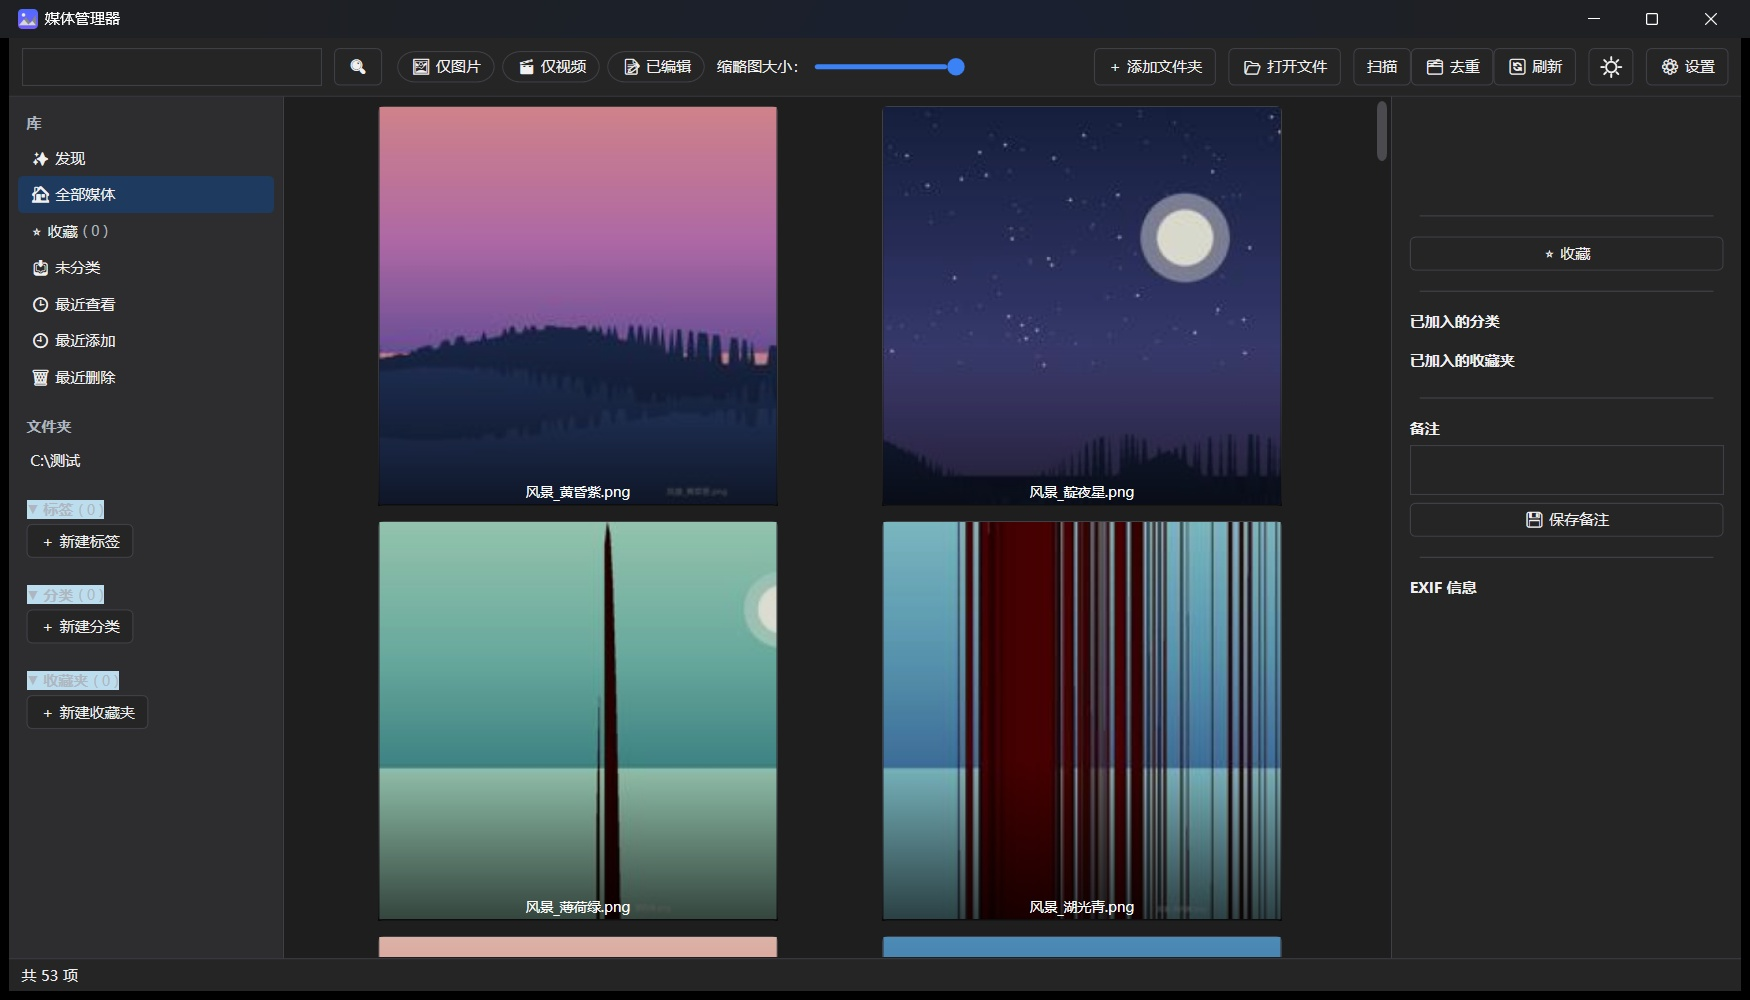
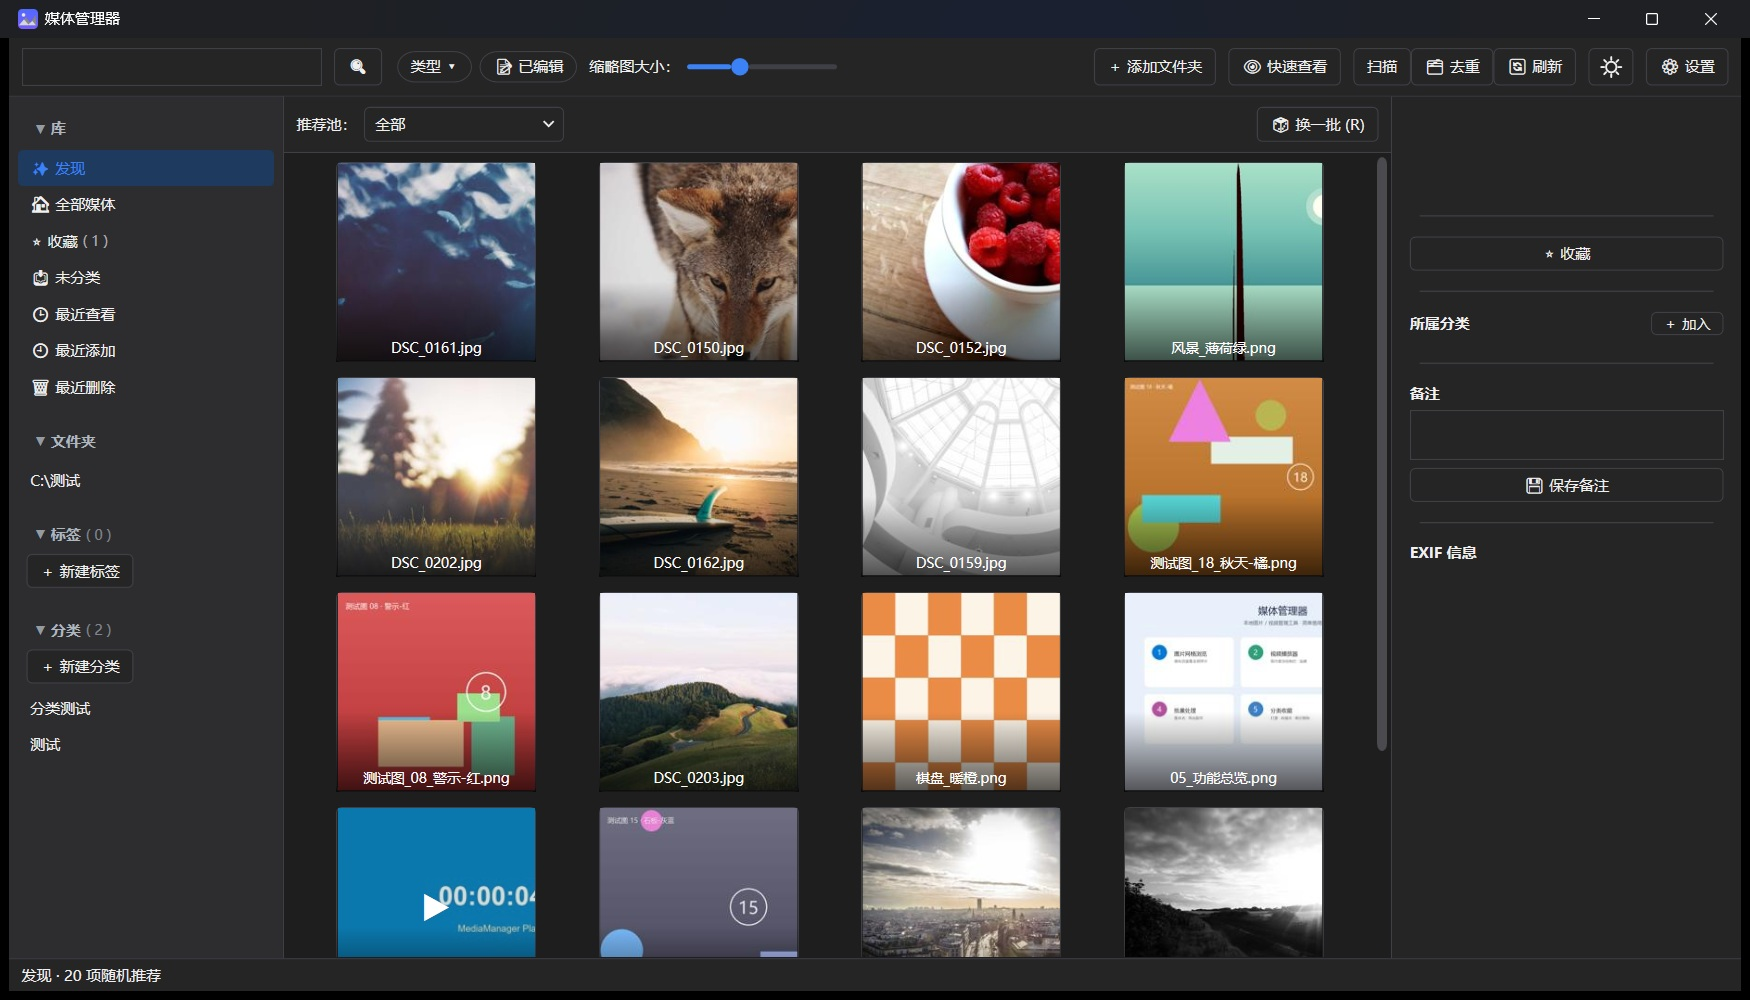
build: 安装包瘦身 100.1→96.3 MiB，截图与社交预览更新到 v1.3.2
瘦身（installer.iss Excludes，publish 输出不动，随时可重打）：
- 排除本地播放永不加载的 VLC 模块：access_output / stream_out（推流）、
  visualization（频谱）、services_discovery（设备发现）、hrtfs
- 排除 *.lib 导入库、System.Windows.Forms.Design（设计器）、
  mscordbi / mscordaccore / DiaSymReader（调试与 dump 资产）
- 未压缩 374 MB → 347 MB，安装包 104,978,521 → 100,947,973 B = 96.3 MiB，
  回到 Gitee 100 MiB 附件上限内
- 实测：静默安装 673 文件，启动正常；用 ctypes 直调裁剪后的 libvlc 解码
  mp4，state=Playing、time 推进、length 正常，与未裁剪版结果一致

宣传素材：
- 重拍 1.3.2 深/浅两套主界面截图（旧图侧栏还挂着收藏夹区），
  同时替换 README 用的 docs/screenshot_*.jpg
- gen_promo：页脚 v1.3.1→v1.3.2，03 卡文案删去「收藏夹」
- 重出 01-cover / 03-aggregate；social-preview.png 1280×640 / 424 KB
- 官网下载区体积 101 → 97 MB

工具：
- build/shot_main_ui.py 重拍 16:10 主界面图
- build/check_libvlc_play.py 裁剪后用 libvlc 直接解码验证播放链路

diff --git a/docs/index.html b/docs/index.html
@@ -183,7 +183,7 @@ footer a:hover{color:var(--tx)}
         <a class="btn btn-s" href="https://github.com/3206YYY/MediaManager">查看源码</a>
       </div>
       <div class="meta">
-        <span>101 MB 安装包</span>
+        <span>97 MB 安装包</span>
         <span>免装 .NET 运行库</span>
         <span>用户级安装，不要管理员权限</span>
       </div>
@@ -305,7 +305,7 @@ footer a:hover{color:var(--tx)}
       <h2>下载 v1.3.2</h2>
       <p>Windows 10 / 11 · 64 位 · 用户级安装，不要管理员权限。装完双击就能用，不需要额外装任何东西。</p>
       <div class="acts">
-        <a class="btn btn-p" href="https://github.com/3206YYY/MediaManager/releases/latest">GitHub 下载（101 MB）</a>
+        <a class="btn btn-p" href="https://github.com/3206YYY/MediaManager/releases/latest">GitHub 下载（97 MB）</a>
         <a class="btn btn-s" href="https://gitee.com/yyy3206/MediaManager" target="_blank" rel="noopener">Gitee 镜像（源码）</a>
       </div>
       <div class="note">

diff --git a/build/shot_main_ui.py b/build/shot_main_ui.py
@@ -1,0 +1,127 @@
+# -*- coding: utf-8 -*-
+"""一次性：启动 1.3.2 主窗口，设为 16:10 窗口后 PrintWindow 抓图，输出宣传用截图。
+
+用法： python build/_shot_new_ui.py <输出 jpg 路径>
+"""
+import ctypes
+import ctypes.wintypes as wt
+import os
+import subprocess
+import sys
+import time
+
+from PIL import Image
+
+user32 = ctypes.windll.user32
+kernel32 = ctypes.windll.kernel32
+gdi32 = ctypes.windll.gdi32
+try:
+    ctypes.windll.shcore.SetProcessDpiAwareness(2)
+except Exception:
+    user32.SetProcessDPIAware()
+
+ROOT = os.path.dirname(os.path.dirname(os.path.abspath(__file__)))
+EXE = os.path.join(ROOT, "dist", "MediaManager-win-x64", "MediaManager.App.exe")
+TARGET = (1750, 1000)
+
+
+def exe_of(hwnd):
+    pid = wt.DWORD()
+    user32.GetWindowThreadProcessId(hwnd, ctypes.byref(pid))
+    h = kernel32.OpenProcess(0x1000, False, pid.value)
+    if not h:
+        return ""
+    buf = ctypes.create_unicode_buffer(1024)
+    n = wt.DWORD(1024)
+    ok = kernel32.QueryFullProcessImageNameW(h, 0, buf, ctypes.byref(n))
+    kernel32.CloseHandle(h)
+    return os.path.basename(buf.value).lower() if ok else ""
+
+
+def find_main():
+    found = []
+
+    @ctypes.WINFUNCTYPE(ctypes.c_bool, wt.HWND, wt.LPARAM)
+    def cb(hwnd, _):
+        if not user32.IsWindowVisible(hwnd):
+            return True
+        if "mediamanager" not in exe_of(hwnd):
+            return True
+        r = wt.RECT()
+        user32.GetWindowRect(hwnd, ctypes.byref(r))
+        if r.right - r.left > 600 and r.bottom - r.top > 400:
+            found.append(hwnd)
+        return True
+
+    user32.EnumWindows(cb, 0)
+    return found
+
+
+def grab(hwnd, out):
+    user32.ShowWindow(hwnd, 9)          # SW_RESTORE
+    try:
+        user32.SetForegroundWindow(hwnd)
+    except Exception:
+        pass
+    time.sleep(1.5)
+    r = wt.RECT()
+    user32.GetWindowRect(hwnd, ctypes.byref(r))
+    w, h = r.right - r.left, r.bottom - r.top
+    hdc = user32.GetWindowDC(hwnd)
+    mem = gdi32.CreateCompatibleDC(hdc)
+    bmp = gdi32.CreateCompatibleBitmap(hdc, w, h)
+    gdi32.SelectObject(mem, bmp)
+    ok = user32.PrintWindow(hwnd, mem, 2)   # PW_RENDERFULLCONTENT
+
+    class BIH(ctypes.Structure):
+        _fields_ = [("biSize", wt.DWORD), ("biWidth", ctypes.c_long), ("biHeight", ctypes.c_long),
+                    ("biPlanes", wt.WORD), ("biBitCount", wt.WORD), ("biCompression", wt.DWORD),
+                    ("biSizeImage", wt.DWORD), ("biXPelsPerMeter", ctypes.c_long),
+                    ("biYPelsPerMeter", ctypes.c_long), ("biClrUsed", wt.DWORD),
+                    ("biClrImportant", wt.DWORD)]
+
+    bi = BIH()
+    bi.biSize = ctypes.sizeof(bi)
+    bi.biWidth, bi.biHeight = w, -h
+    bi.biPlanes, bi.biBitCount, bi.biCompression = 1, 32, 0
+    buf = ctypes.create_string_buffer(w * h * 4)
+    gdi32.GetDIBits(mem, bmp, 0, h, buf, ctypes.byref(bi), 0)
+    img = Image.frombuffer("RGB", (w, h), buf.raw, "raw", "BGRX", 0, 1)
+    gdi32.DeleteDC(mem)
+    gdi32.DeleteObject(bmp)
+    user32.ReleaseDC(hwnd, hdc)
+    return ok, img
+
+
+def main():
+    out = os.path.abspath(sys.argv[1] if len(sys.argv) > 1 else "shot.jpg")
+    proc = subprocess.Popen([EXE], cwd=os.path.dirname(EXE))
+    hwnd = None
+    for _ in range(60):
+        time.sleep(1)
+        wins = find_main()
+        if wins:
+            hwnd = wins[0]
+            break
+    if not hwnd:
+        print("NO_WINDOW")
+        return 1
+    # 固定窗口尺寸（含边框），保证 16:10
+    user32.MoveWindow(hwnd, 40, 20, TARGET[0], TARGET[1], True)
+    time.sleep(6)          # 等缩略图加载完
+    ok, img = grab(hwnd, out)
+
+    # 归一化：等比铺满裁切到 1750x1000
+    tw, th = TARGET
+    sw, sh = img.size
+    scale = max(tw / sw, th / sh)
+    img = img.resize((round(sw * scale), round(sh * scale)), Image.LANCZOS)
+    w, h = img.size
+    img = img.crop(((w - tw) // 2, (h - th) // 2, (w - tw) // 2 + tw, (h - th) // 2 + th))
+    img.save(out, "JPEG", quality=94)
+    print(f"PrintWindow ok={ok}  raw={sw}x{sh}  -> {out}  {img.size}")
+    return 0
+
+
+if __name__ == "__main__":
+    sys.exit(main())

diff --git a/build/check_libvlc_play.py b/build/check_libvlc_play.py
@@ -1,0 +1,95 @@
+# -*- coding: utf-8 -*-
+"""一次性：用裁剪后的 libvlc 直接解码一个 mp4，确认播放链路完好。
+
+用法: python build/_check_libvlc.py <libvlc 所在目录> <视频路径>
+"""
+import ctypes
+import os
+import sys
+import time
+
+STATE = {0: "NothingSpecial", 1: "Opening", 2: "Buffering", 3: "Playing",
+         4: "Paused", 5: "Stopped", 6: "Ended", 7: "Error"}
+
+
+def main():
+    vlc_dir = os.path.abspath(sys.argv[1] if len(sys.argv) > 1 else ".")
+    sample = sys.argv[2] if len(sys.argv) > 2 else r"C:\测试\clip_a.mp4"
+    dll = os.path.join(vlc_dir, "libvlc.dll")
+    if not os.path.exists(dll):
+        print("找不到", dll)
+        return 1
+
+    os.add_dll_directory(vlc_dir)
+    lv = ctypes.CDLL(dll)
+
+    lv.libvlc_new.restype = ctypes.c_void_p
+    lv.libvlc_new.argtypes = [ctypes.c_int, ctypes.POINTER(ctypes.c_char_p)]
+    lv.libvlc_media_new_path.restype = ctypes.c_void_p
+    lv.libvlc_media_new_path.argtypes = [ctypes.c_void_p, ctypes.c_char_p]
+    lv.libvlc_media_new_location.restype = ctypes.c_void_p
+    lv.libvlc_media_new_location.argtypes = [ctypes.c_void_p, ctypes.c_char_p]
+    lv.libvlc_media_player_new_from_media.restype = ctypes.c_void_p
+    lv.libvlc_media_player_new_from_media.argtypes = [ctypes.c_void_p]
+    lv.libvlc_media_player_play.restype = ctypes.c_int
+    lv.libvlc_media_player_play.argtypes = [ctypes.c_void_p]
+    lv.libvlc_media_player_get_state.restype = ctypes.c_int
+    lv.libvlc_media_player_get_state.argtypes = [ctypes.c_void_p]
+    lv.libvlc_media_player_get_time.restype = ctypes.c_longlong
+    lv.libvlc_media_player_get_time.argtypes = [ctypes.c_void_p]
+    lv.libvlc_media_player_get_length.restype = ctypes.c_longlong
+    lv.libvlc_media_player_get_length.argtypes = [ctypes.c_void_p]
+    lv.libvlc_media_player_stop.argtypes = [ctypes.c_void_p]
+    lv.libvlc_media_player_release.argtypes = [ctypes.c_void_p]
+    lv.libvlc_media_release.argtypes = [ctypes.c_void_p]
+    lv.libvlc_release.argtypes = [ctypes.c_void_p]
+
+    args = [
+        b"--plugin-path=" + os.path.join(vlc_dir, "plugins").encode("utf-8"),
+        b"--vout=dummy",
+        b"--aout=dummy",
+        b"--no-video-title-show",
+        b"--quiet",
+    ]
+    arr = (ctypes.c_char_p * len(args))(*args)
+    inst = lv.libvlc_new(len(args), arr)
+    if not inst:
+        print("FAIL libvlc_new 返回空（插件初始化失败）")
+        return 1
+    print(f"OK libvlc_new（目录 {vlc_dir}）")
+
+    uri = "file:///" + sample.replace("\\", "/")
+    media = lv.libvlc_media_new_location(inst, uri.encode("utf-8"))
+    if not media:
+        print("FAIL media 创建失败", uri)
+        return 1
+    mp = lv.libvlc_media_player_new_from_media(media)
+    rc = lv.libvlc_media_player_play(mp)
+    print("play rc =", rc)
+
+    best = 0
+    for _ in range(40):
+        time.sleep(0.5)
+        st = lv.libvlc_media_player_get_state(mp)
+        t = lv.libvlc_media_player_get_time(mp)
+        best = max(best, t)
+        if st in (3, 6) and t > 0:
+            break
+        if st == 7:
+            break
+    st = lv.libvlc_media_player_get_state(mp)
+    length = lv.libvlc_media_player_get_length(mp)
+    print(f"state={STATE.get(st, st)}  time={best} ms  length={length} ms")
+
+    lv.libvlc_media_player_stop(mp)
+    lv.libvlc_media_player_release(mp)
+    lv.libvlc_media_release(media)
+    lv.libvlc_release(inst)
+
+    ok = st in (3, 6, 4) and best > 0
+    print("RESULT", "PLAY_OK" if ok else "PLAY_FAIL")
+    return 0 if ok else 1
+
+
+if __name__ == "__main__":
+    sys.exit(main())
